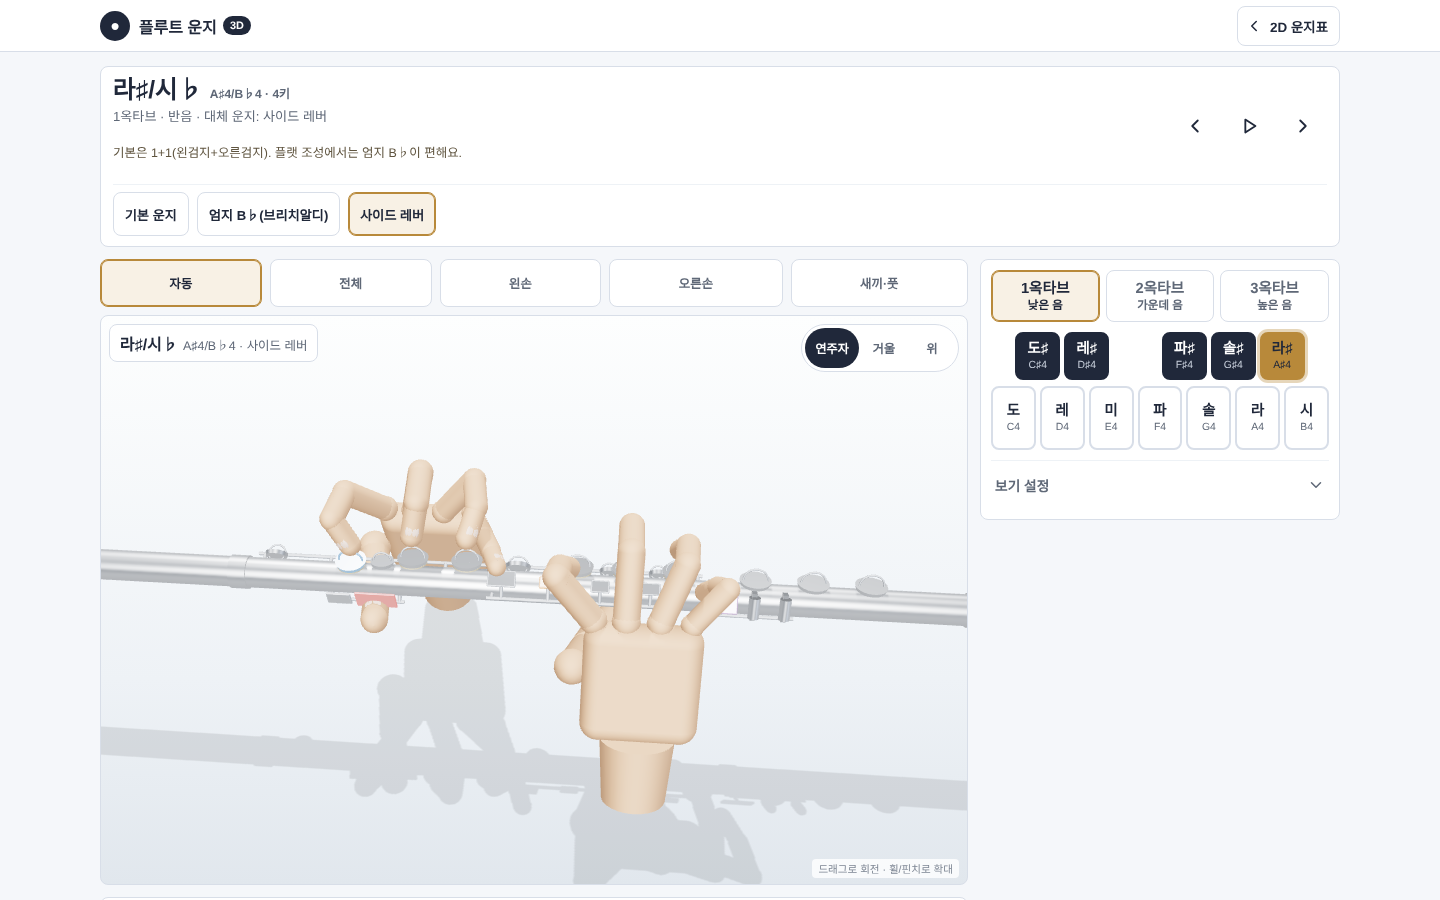
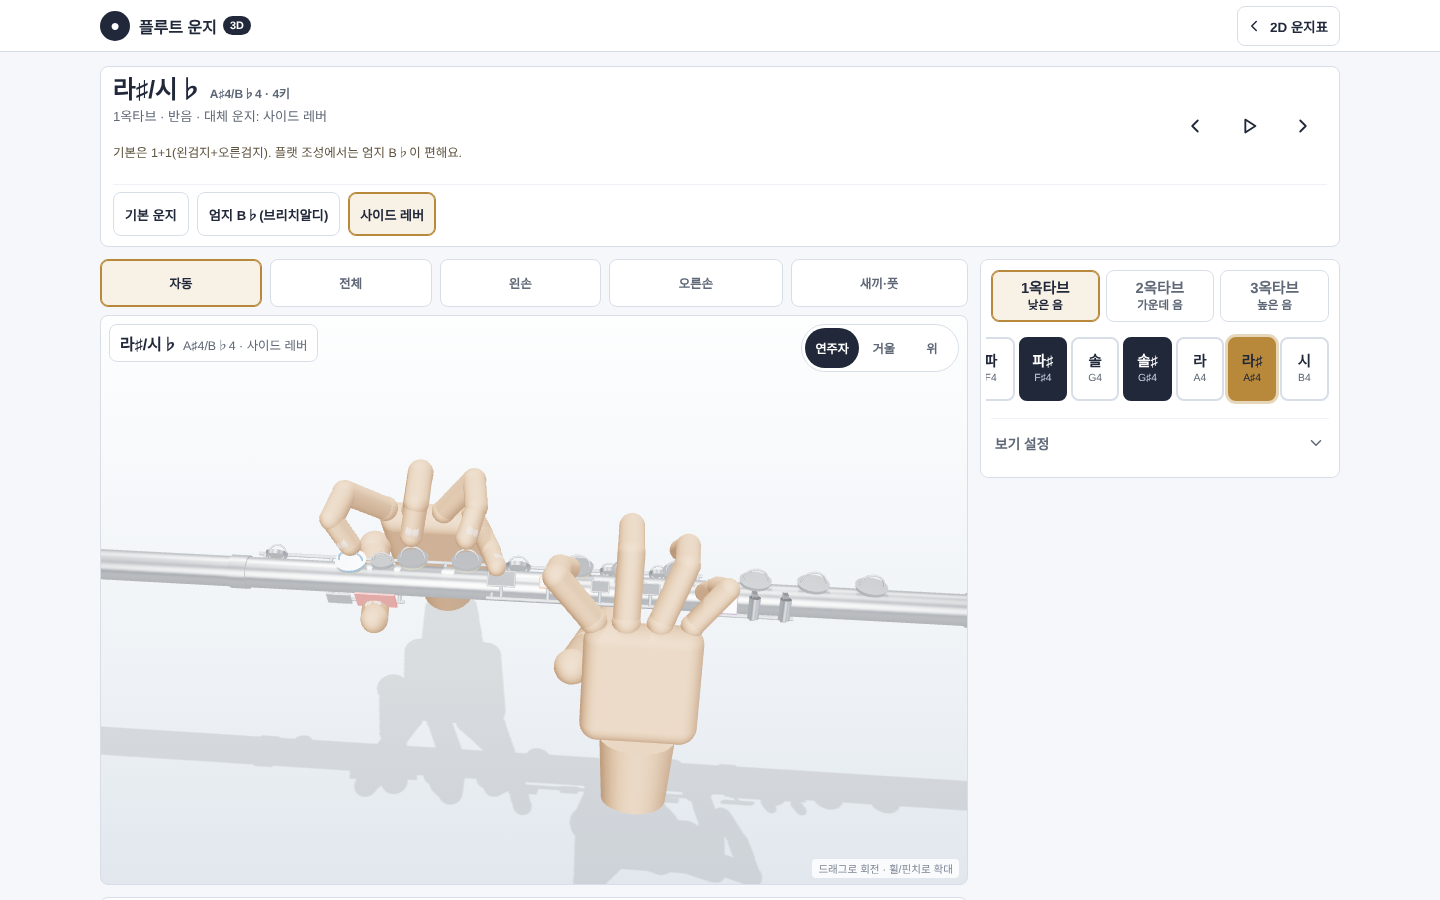
Lay the 3D note keys out in a single horizontal row
Replace the piano-style two-row keyboard (sharps above, naturals below)
with one row in pitch order ("1열 횡대").

- One row per octave, low to high: 12 keys, or 13 in the 3rd octave with
  C7. Dark keys are sharps. The grid-column placement and the .n7/.n8
  grids are gone.
- Twelve keys at a usable size do not fit the 338px panel (~26px each),
  so the row scrolls sideways. Keys stay at least 44px wide
  (clamp(44px, (100% - 24px) / 6.5, 72px)); 6.5 keys are visible, so the
  half-cut key at the edge is the "there is more" cue.
- centerActiveKey() scrolls only the row (never the page) so the selected
  key sits in the middle, or at the end of the row. It animates when the
  note changes inside an octave (autoplay included) and jumps on first
  paint, octave change, resize and prefers-reduced-motion. A
  ResizeObserver re-centers when the panel width changes. A row the user
  scrolled by hand stays put until the note changes.
- The scroll area keeps 5px padding so the gold glow and the focus ring
  are not clipped, scroll-padding keeps Tab-focused keys off the edge,
  and overscroll-behavior-x stops edge swipes from navigating back.
- Panel height: 261px -> 219px (390px and 1280px viewports).
- Update docs/3d-view.md and the 3D QA screenshots.

The fingering data block and qa/check-3d-data.mjs are untouched.

Claude-Session: https://claude.ai/code/session_01AGBZvwWJVfQoH8o65SEwUy

Changed region(s): [[0.6875, 0.3422, 0.9375, 0.4978], [0.6875, 0.5289, 0.75, 0.56]]

diff --git a/3d.html b/3d.html
@@ -152,7 +152,7 @@ main#app-main{width:min(100%,1280px);margin:0 auto;padding:8px 10px 24px;display
 .legend span{display:inline-flex;align-items:center;gap:5px}
 .legend i{width:9px;height:9px;border-radius:50%;display:inline-block}
 
-/* 오른쪽 패널 — 한 장의 카드: ① 옥타브 고르기 ② 그 옥타브 건반 한 줄 ③ 접어 둔 「보기 설정」 */
+/* 오른쪽 패널 — 한 장의 카드: ① 옥타브 고르기 ② 그 옥타브 건반 한 줄(가로 배열) ③ 접어 둔 「보기 설정」 */
 #side-panel{padding:10px;background:var(--surface);border:1px solid var(--line);border-radius:var(--radius)}
 #selector3d{display:grid;gap:10px;width:100%;max-width:480px;margin:0 auto}
 .octave-switch{display:grid;grid-template-columns:repeat(3,minmax(0,1fr));gap:6px}
@@ -163,17 +163,20 @@ main#app-main{width:min(100%,1280px);margin:0 auto;padding:8px 10px 24px;display
 .octave-btn b{font-size:.92rem;font-weight:800}
 .octave-btn span{font-size:.72rem;font-weight:650}
 .octave-btn[aria-pressed="true"]{color:var(--ink);border-color:var(--accent);background:#f8f1e5;box-shadow:inset 0 0 0 1px var(--accent)}
-/* 건반: 아래 줄 = 흰 건반(온음), 위 줄 = 검은 건반(반음). 검은 건반은 두 흰 건반 사이에 걸치도록 반 칸 어긋나게 놓는다 */
-.piano{display:grid;grid-template-rows:48px 64px;gap:6px 4px}
+/* 건반: 낮은 음 → 높은 음 순서로 한 줄(1열 횡대). 흰 칸 = 온음, 검은 칸 = 반음(♯).
+   12~13개를 한 화면에 다 넣으면 칸이 26px쯤으로 좁아져 누르기 어려우므로, 칸 폭은 터치하기 좋게(44px 이상) 두고 옆으로 밀어 본다.
+   한 화면에 6칸 반이 보이도록 폭을 잡아서 일곱 번째 칸이 반쯤 잘려 보이게 — "더 있다"는 표시. 고른 음은 centerActiveKey()가 늘 가운데로 가져온다.
+   padding은 고른 칸의 빛(3px)·포커스 링(3px+2px)이 스크롤 영역에 잘리지 않게 하는 여백이고, 좌우 -5px 여백으로 위쪽 옥타브 버튼과 가장자리를 맞춘다. */
+.piano{
+  position:relative;display:flex;gap:4px;margin:0 -5px;padding:5px 5px 7px;scroll-padding-inline:10px;
+  overflow-x:auto;overscroll-behavior-x:contain;scrollbar-width:thin;scrollbar-color:#b9c1cd transparent
+}
 .piano[hidden]{display:none}
-.piano.n7{grid-template-columns:repeat(14,minmax(0,1fr))}
-.piano.n8{grid-template-columns:repeat(16,minmax(0,1fr))}
 .note-btn{
-  min-width:0;padding:3px 2px;border:2px solid var(--line);border-radius:var(--radius);
+  flex:0 0 clamp(44px,calc((100% - 24px) / 6.5),72px);min-height:64px;padding:3px 2px;border:2px solid var(--line);border-radius:var(--radius);
   background:#fff;color:var(--ink);cursor:pointer;display:flex;flex-direction:column;align-items:center;justify-content:center;line-height:1.05
 }
-.note-btn.white{grid-row:2}
-.note-btn.black{grid-row:1;background:var(--ink);border-color:var(--ink);color:#fff}
+.note-btn.black{background:var(--ink);border-color:var(--ink);color:#fff}
 .note-btn .nb-ko{font-size:.91rem;font-weight:850}
 .note-btn .nb-en{font-size:.65rem;color:var(--muted);margin-top:3px;white-space:nowrap}
 .note-btn.black .nb-en{color:#c7cfdb}
@@ -1008,30 +1011,46 @@ function renderFingerSummary(ks, on, off, first){
     </div>`;
 }
 
-/* 음 고르기: 옥타브 3칸 + 고른 옥타브의 건반 한 벌만 보여 준다(나머지 둘은 hidden).
-   건반은 피아노처럼 — 아래 줄 흰 건반(온음), 위 줄 검은 건반(반음). 칸 번호는 흰 건반 2칸씩,
-   검은 건반은 앞 흰 건반의 뒤 칸부터 2칸이라 두 흰 건반 사이에 걸쳐 앉는다. */
+/* 음 고르기: 옥타브 3칸 + 고른 옥타브의 건반 한 줄만 보여 준다(나머지 둘은 hidden).
+   건반은 낮은 음 → 높은 음 순서로 한 줄에 늘어놓는다(반음 단위, 검은 칸 = ♯). 한 줄이 패널보다 길어서 옆으로 밀어 볼 수 있고,
+   고른 음은 selectNote()가 centerActiveKey()로 늘 가운데에 가져다 놓는다. */
 function buildSelector(){
   const octaveSwitch = `<div class="octave-switch" role="group" aria-label="옥타브">${[1, 2, 3].map(oct =>
     `<button class="octave-btn" data-octave="${oct}" aria-pressed="false"><b>${oct}옥타브</b><span>${OCT_LABELS[oct]}</span></button>`).join("")}</div>`;
   const pianos = [1, 2, 3].map(oct => {
-    let whites = 0;
     const keys = NOTES.filter(n => n.oct === oct).map(n => {
       const black = n.id.includes("s");
-      const column = black ? 2 * whites : 2 * whites + 1;
-      if (!black) whites += 1;
-      return `<button class="note-btn ${black ? "black" : "white"}" style="grid-column:${column} / span 2" data-note="${n.id}" aria-pressed="false" aria-label="${n.oct}옥타브 ${n.ko} ${n.name}">
+      return `<button class="note-btn ${black ? "black" : "white"}" data-note="${n.id}" aria-pressed="false" aria-label="${n.oct}옥타브 ${n.ko} ${n.name}">
         <span class="nb-ko">${n.ko.split("/")[0]}</span><span class="nb-en">${n.name.split("/")[0]}</span></button>`;
     }).join("");
-    return `<div class="piano n${whites}" data-piano="${oct}" role="group" aria-label="${oct}옥타브 ${OCT_LABELS[oct]} 건반" hidden>${keys}</div>`;
+    return `<div class="piano" data-piano="${oct}" role="group" aria-label="${oct}옥타브 ${OCT_LABELS[oct]} 건반" hidden>${keys}</div>`;
   }).join("");
   $("selector3d").innerHTML = octaveSwitch + pianos;
 }
 
+/* 고른 옥타브의 건반 줄을 펼친다. 다른 옥타브가 새로 펼쳐졌으면 true */
 function showOctave(oct){
-  document.querySelectorAll("#selector3d [data-piano]").forEach(piano => { piano.hidden = Number(piano.dataset.piano) !== oct; });
+  let opened = false;
+  document.querySelectorAll("#selector3d [data-piano]").forEach(piano => {
+    const hide = Number(piano.dataset.piano) !== oct;
+    if (piano.hidden !== hide){ piano.hidden = hide; if (!hide) opened = true; }
+  });
   document.querySelectorAll("#selector3d .octave-btn").forEach(button =>
     button.setAttribute("aria-pressed", String(Number(button.dataset.octave) === oct)));
+  return opened;
+}
+
+/* 고른 음(.active)이 건반 줄의 가운데 오도록 줄만 옆으로 민다. scrollIntoView는 페이지까지 움직일 수 있어서 쓰지 않는다.
+   처음 그릴 때·옥타브를 바꿀 때·'동작 줄이기' 설정에서는 애니메이션 없이 바로 옮긴다. */
+function centerActiveKey(instant){
+  const piano = document.querySelector("#selector3d .piano:not([hidden])");
+  const key = piano && piano.querySelector(".note-btn.active");
+  if (!key) return;
+  const room = piano.scrollWidth - piano.clientWidth;
+  if (room <= 0) return;
+  const left = Math.min(room, Math.max(0, key.offsetLeft + key.offsetWidth / 2 - piano.clientWidth / 2));
+  const calm = instant || window.matchMedia("(prefers-reduced-motion: reduce)").matches;
+  piano.scrollTo({ left, behavior: calm ? "auto" : "smooth" });
 }
 
 function stateQuery(){
@@ -1068,7 +1087,8 @@ function selectNote(noteId, opts = {}){
     button.classList.toggle("active", active);
     button.setAttribute("aria-pressed", String(active));
   });
-  showOctave(note.oct);
+  const octaveOpened = showOctave(note.oct);
+  centerActiveKey(first || octaveOpened);
   $("stage-label").innerHTML = `<b>${note.ko}</b>${note.name}${altIndex >= 0 ? ` · ${note.alt[altIndex].name}` : ""}`;
   const link2d = `./?${stateQuery()}&mode=learn`;
   $("back-2d").setAttribute("href", link2d);
@@ -1215,6 +1235,13 @@ buildSelector();
 bindUi();
 const start = initialSelection();
 showOctave(noteById(start.id).oct);   // 3D를 불러오는 동안에도 처음부터 맞는 옥타브 건반이 보이게
+if ("ResizeObserver" in window){      // 화면 폭이 바뀌면(기기 회전·창 크기) 칸 폭도 바뀌므로 고른 음을 다시 가운데로
+  let lastWidth = 0;
+  new ResizeObserver(entries => {
+    const width = Math.round(entries[0].contentRect.width);
+    if (width !== lastWidth){ lastWidth = width; centerActiveKey(true); }
+  }).observe($("selector3d"));
+}
 
 if (!webgl2Available()){
   window.__flute3d.failed = true;

diff --git a/docs/3d-view.md b/docs/3d-view.md
@@ -53,12 +53,13 @@ node qa/check-3d-data.mjs
 
 처음 버전은 음 버튼 37개와 표시 옵션 4개가 한꺼번에 보여서 복잡했습니다. 지금은 한 장의 카드로 줄였습니다.
 
-- **옥타브 3칸 + 건반 한 벌**: 「1옥타브 낮은 음 / 2옥타브 가운데 음 / 3옥타브 높은 음」 중 고른 옥타브의 건반만 보입니다(나머지는 `hidden`이라 탭 순서에서도 빠집니다).
-- **피아노 배치**: 아래 줄은 흰 건반(온음), 위 줄은 검은 건반(반음)이고, 검은 건반은 두 흰 건반 사이에 걸치도록 반 칸 어긋나게 놓습니다(14칸 그리드). 3옥타브만 C7까지 흰 건반이 8개입니다(16칸).
+- **옥타브 3칸 + 건반 한 줄**: 「1옥타브 낮은 음 / 2옥타브 가운데 음 / 3옥타브 높은 음」 중 고른 옥타브의 건반만 보입니다(나머지는 `hidden`이라 탭 순서에서도 빠집니다).
+- **건반은 1열 횡대(한 줄)**: 낮은 음 → 높은 음 순서로 반음 단위 12칸(3옥타브는 C7까지 13칸)을 한 줄에 늘어놓습니다. 흰 칸은 온음, 검은 칸은 반음(♯)입니다. 12칸을 한 화면에 다 넣으면 칸 폭이 26px쯤으로 좁아져 손가락으로 누르기 어려워서, 칸 폭은 44px 이상(패널 폭의 1/6.5)으로 두고 줄을 옆으로 밀어 봅니다. 한 화면에 6칸 반이 보여서 가장자리 칸이 반쯤 잘려 보이는 것이 "더 있다"는 표시입니다.
+- **고른 음은 늘 가운데**: 음을 고르거나(탭 · ←/→ · 이전/다음 · 자동 재생) 화면 폭이 바뀌면 `centerActiveKey()`가 그 칸을 줄 가운데로 가져옵니다(줄 양 끝에서는 끝까지만). 같은 옥타브 안에서는 부드럽게, 옥타브를 바꿀 때 · 처음 열 때 · 「동작 줄이기」 설정에서는 바로 옮기고, 직접 밀어 둔 위치는 음을 바꾸기 전까지 그대로 둡니다. Tab으로 건반을 지날 때는 브라우저가 그 칸이 보이게 줄을 움직이며(`scroll-padding`), 포커스 링이 잘리지 않습니다.
 - **옥타브 버튼 = 지금 음을 같은 계이름으로 옮김**: D♯5에서 「3옥타브」를 누르면 D♯6이 됩니다(↑/↓ 키와 같은 동작). 그래서 건반에는 항상 선택한 음이 보입니다. 키보드 ←/→/↑/↓, 이전/다음 버튼, 자동 재생으로 음이 바뀌어도 건반이 그 옥타브로 따라갑니다.
 - **선택한 음**은 금색(`--accent`) 채움 하나로 표시합니다(예전의 ✓ 배지는 뺐습니다). 강제 색상 모드에서는 3px 윤곽선으로 보입니다.
 - **보기 설정**(손 보이기 · 손 반투명 · 달라진 키 표시 · 천천히 움직이기)은 기본으로 접혀 있고, 펼치면 `role="switch"` 스위치 4개와 키보드 안내가 나옵니다. 기본값은 손 켬 · 반투명 끔 · 달라진 키 켬 · 천천히 끔입니다.
-- 코드는 `buildSelector()`(건반 생성) · `showOctave()`(옥타브 전환) · `bindUi()`의 `#selector3d` 클릭 처리에 있습니다. 옥타브 1~3과 흰 건반 7~8개(14·16칸)를 가정하므로, 음 범위를 넓히면 `buildSelector()`와 CSS의 `.piano.n7` · `.piano.n8`을 함께 고치세요.
+- 코드는 `buildSelector()`(건반 생성) · `showOctave()`(옥타브 전환) · `centerActiveKey()`(가운데 맞추기) · `bindUi()`의 `#selector3d` 클릭 처리에 있습니다. 옥타브 1~3(옥타브마다 12~13칸)을 가정하며, 음 범위가 달라져도 건반 줄은 칸 수만큼 그대로 늘어납니다. 칸 폭은 CSS `.note-btn`의 `flex-basis: clamp(44px, (100% − 24px) ÷ 6.5, 72px)`로 정합니다. `.piano`의 padding(5px)은 선택한 칸의 빛(3px)과 포커스 링(3px+2px)이 스크롤 영역에 잘리지 않게 하는 여백이므로 함께 바꾸세요.
 
 ## 좌표 · 자세 규약
 
@@ -101,5 +102,6 @@ node qa/check-3d-data.mjs
 - 3D에서 음을 바꾼 뒤 「2D 운지표」로 돌아가면 그 음이 선택돼 있다.
 - 함정 음 D4·D5·D6, 대체 운지 A♯4(3종), 롤러 C4·C♯4, 트릴 B♭6·B6의 손가락이 해당 키에 닿는다.
 - 오른쪽 패널: 옥타브 버튼을 누르면 같은 계이름으로 옮겨지고 건반에 선택한 음(금색)이 보인다. C7은 3옥타브에서만 있다. 「보기 설정」은 접혀 있고 펼치면 스위치 4개가 나온다.
+- 건반은 한 줄이고 손가락으로 옆으로 밀 수 있다(가장자리 칸이 반쯤 잘려 보임). 어떤 음을 골라도 그 칸이 줄 가운데(줄 끝이면 끝)에 오고, 건반 위에서 위아래로 밀면 페이지가 스크롤된다.
 - 앱을 한 번 연 뒤 오프라인에서 2D·3D 화면이 각각 제대로 열린다.
 - WebGL을 끈 브라우저에서 안내 문구와 2D 링크가 나온다.
